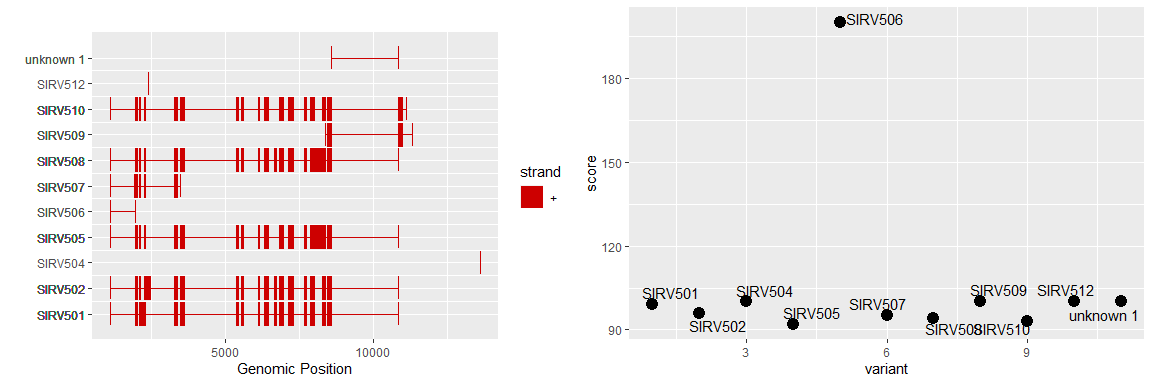
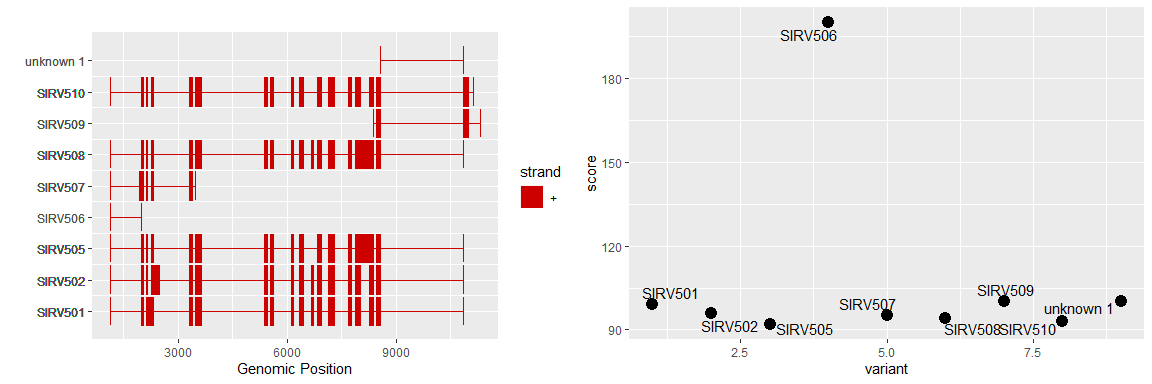
Updated README to include example where score_column is not specified.

diff --git a/README.md b/README.md
@@ -59,6 +59,17 @@ draw_splice_picture(parsed_splices, quant = TRUE, order_splices = "name")
 
 ![](man/figures/README-unnamed-chunk-4-1.png)
 
+### For one sample - not supplying score_column
+
+``` r
+file <- system.file("extdata", "sirv5.txt", package = "nexonsAnalysis")
+nexons_output <- readr::read_delim(file)
+parsed_splices <- parse_default_nexons(nexons_output)
+draw_splice_picture(parsed_splices, quant = FALSE, order_splices = "name")
+```
+
+![](man/figures/README-unnamed-chunk-5-1.png)
+
 ### For multiple samples
 
 Use purrr::map to iterate over multiple datasets.
@@ -72,7 +83,7 @@ parsed_splices <- purrr::map(count_columns, parse_default_nexons, nexons_output=
 p <- purrr::map(parsed_splices, draw_splice_picture, quant=TRUE, order_splices = "score")
 ```
 
-![](man/figures/README-unnamed-chunk-5-1.png)![](man/figures/README-unnamed-chunk-5-2.png)
+![](man/figures/README-unnamed-chunk-6-1.png)![](man/figures/README-unnamed-chunk-6-2.png)
 
 ### Adding titles to the plots
 
@@ -86,7 +97,7 @@ parsed_splices <- purrr::map(count_columns, parse_default_nexons, nexons_output=
 p <- purrr::imap(parsed_splices, ~ draw_splice_picture(.x, title_text=.y, quant=TRUE, order_splices = "score"))
 ```
 
-![](man/figures/README-unnamed-chunk-6-1.png)![](man/figures/README-unnamed-chunk-6-2.png)
+![](man/figures/README-unnamed-chunk-7-1.png)![](man/figures/README-unnamed-chunk-7-2.png)
 
 ## Flagging up potentially truncated reads
 
@@ -105,13 +116,13 @@ parsed_with_trunc <- identifyPotentialTruncations(parsed_splices, flexibility = 
 DT::datatable(parsed_with_trunc)
 ```
 
-![](man/figures/README-unnamed-chunk-7-1.png)
+![](man/figures/README-unnamed-chunk-8-1.png)
 
 ``` r
 draw_splice_picture(parsed_splices, quant = TRUE, order_splices = "name")
 ```
 
-![](man/figures/README-unnamed-chunk-7-2.png)
+![](man/figures/README-unnamed-chunk-8-2.png)
 
 ## Flagging up truncations
 
@@ -126,4 +137,4 @@ parsed_default_with_trunc <- identifyPotentialTruncations(parsed_splices, flexib
 DT::datatable(parsed_default_with_trunc)
 ```
 
-![](man/figures/README-unnamed-chunk-8-1.png)
+![](man/figures/README-unnamed-chunk-9-1.png)
